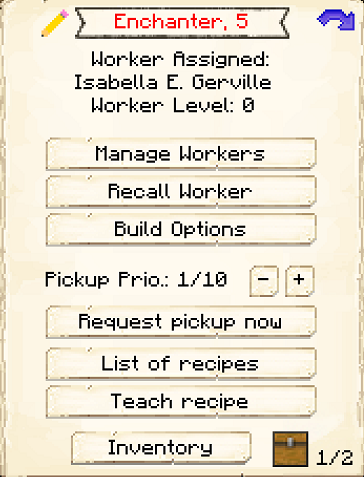
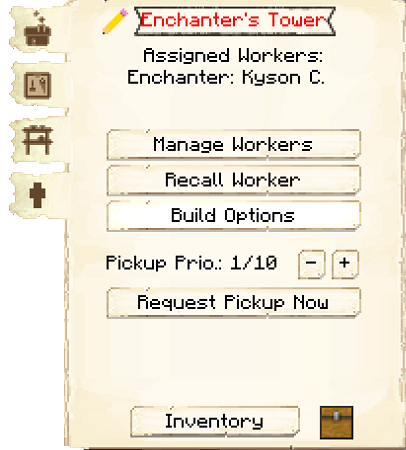
Enchantment Tower Updates

diff --git a/source/buildings/enchantertower.md b/source/buildings/enchantertower.md
@@ -40,12 +40,12 @@ The Enchanter can also craft some magical [scrolls](../../source/items/scrolls) 
 
 ## Enchanter's Hut GUI
 
-When accessing the Enchanter's Hut block by right-clicking on it, you will see a GUI with different options:
+When accessing the Enchanter's Hut block by right-clicking on it, you will see a GUI with different options.   You start on the main tab:
 
 <br>
 <div class="row">
   <div class="col-sm-12 col-md">
-    <img src="../../assets/images/gui/enchantergui1.png" class="img-fluid mx-auto" alt="Enchanter's GUI Page 1">
+    <img src="../../assets/images/gui/enchantergui1.png" class="img-fluid mx-auto" alt="Enchanter's GUI 1">
   </div>
   <div class="col-sm-12 col-md">
     <br>
@@ -56,11 +56,36 @@ When accessing the Enchanter's Hut block by right-clicking on it, you will see a
     </ul>
   </div>
 </div>
-<br> <br>
-On page two of the GUI, you can set which workers the Enchanter will collect XP from.
-<br> 
- <img src="../../assets/images/gui/enchantergui2.png" alt="Enchanter GUI Page 2"/>
 
-Page three has a minimum stock list so you can tell the Enchanter's Tower to keep certain things on hand.
 <br>
-<img src="../../assets/images/gui/minstockgui.png" alt="Enchanter GUI Page 3"/>
+<div class="row">
+    <div class="col-sm-12 col-md">
+      <img src="../../assets/images/gui/enchantergui2.png" class="img-fluid mx-auto" alt="Enchanter's GUI 2">
+    </div>
+    <div class="col-sm-12 col-md">
+    <p>The second tab of the GUI is <strong>List of Recipes</strong>. Here you can see all the crafting recipes this hut knows.  The arrows allow you to move them up or down in priority.  You are also able to disable specific recipes.</p>
+    </div>
+</div>
+  
+<br>
+<div class="row">
+    <div class="col-sm-12 col-md">
+      <img src="../../assets/images/gui/enchantergui3.png" class="img-fluid mx-auto" alt="Enchanter's GUI 3">
+    </div>
+    <div class="col-sm-12 col-md">
+    <p>The third tab of the GUI is <strong>Minimum Stock</strong>.  It has one button:</p>
+    <ul>
+         <li><strong> Add: </strong> Use this button to tell the Enchanter Tower to keep a minimum stock on hand. Set items will be displayed above the button.</li>
+    </ul>
+    </div>
+</div>
+  
+<br>
+<div class="row">
+    <div class="col-sm-12 col-md">
+      <img src="../../assets/images/gui/enchantergui4.png" class="img-fluid mx-auto" alt="Enchanter's GUI 4">
+    </div>
+    <div class="col-sm-12 col-md">
+    <p>The fourth tab of the GUI is <strong>Gather Targets</strong>.  Here you can set which workers the Enchanter will collect XP from, and how far that worker is from the tower.</p>
+    </div>
+</div>
